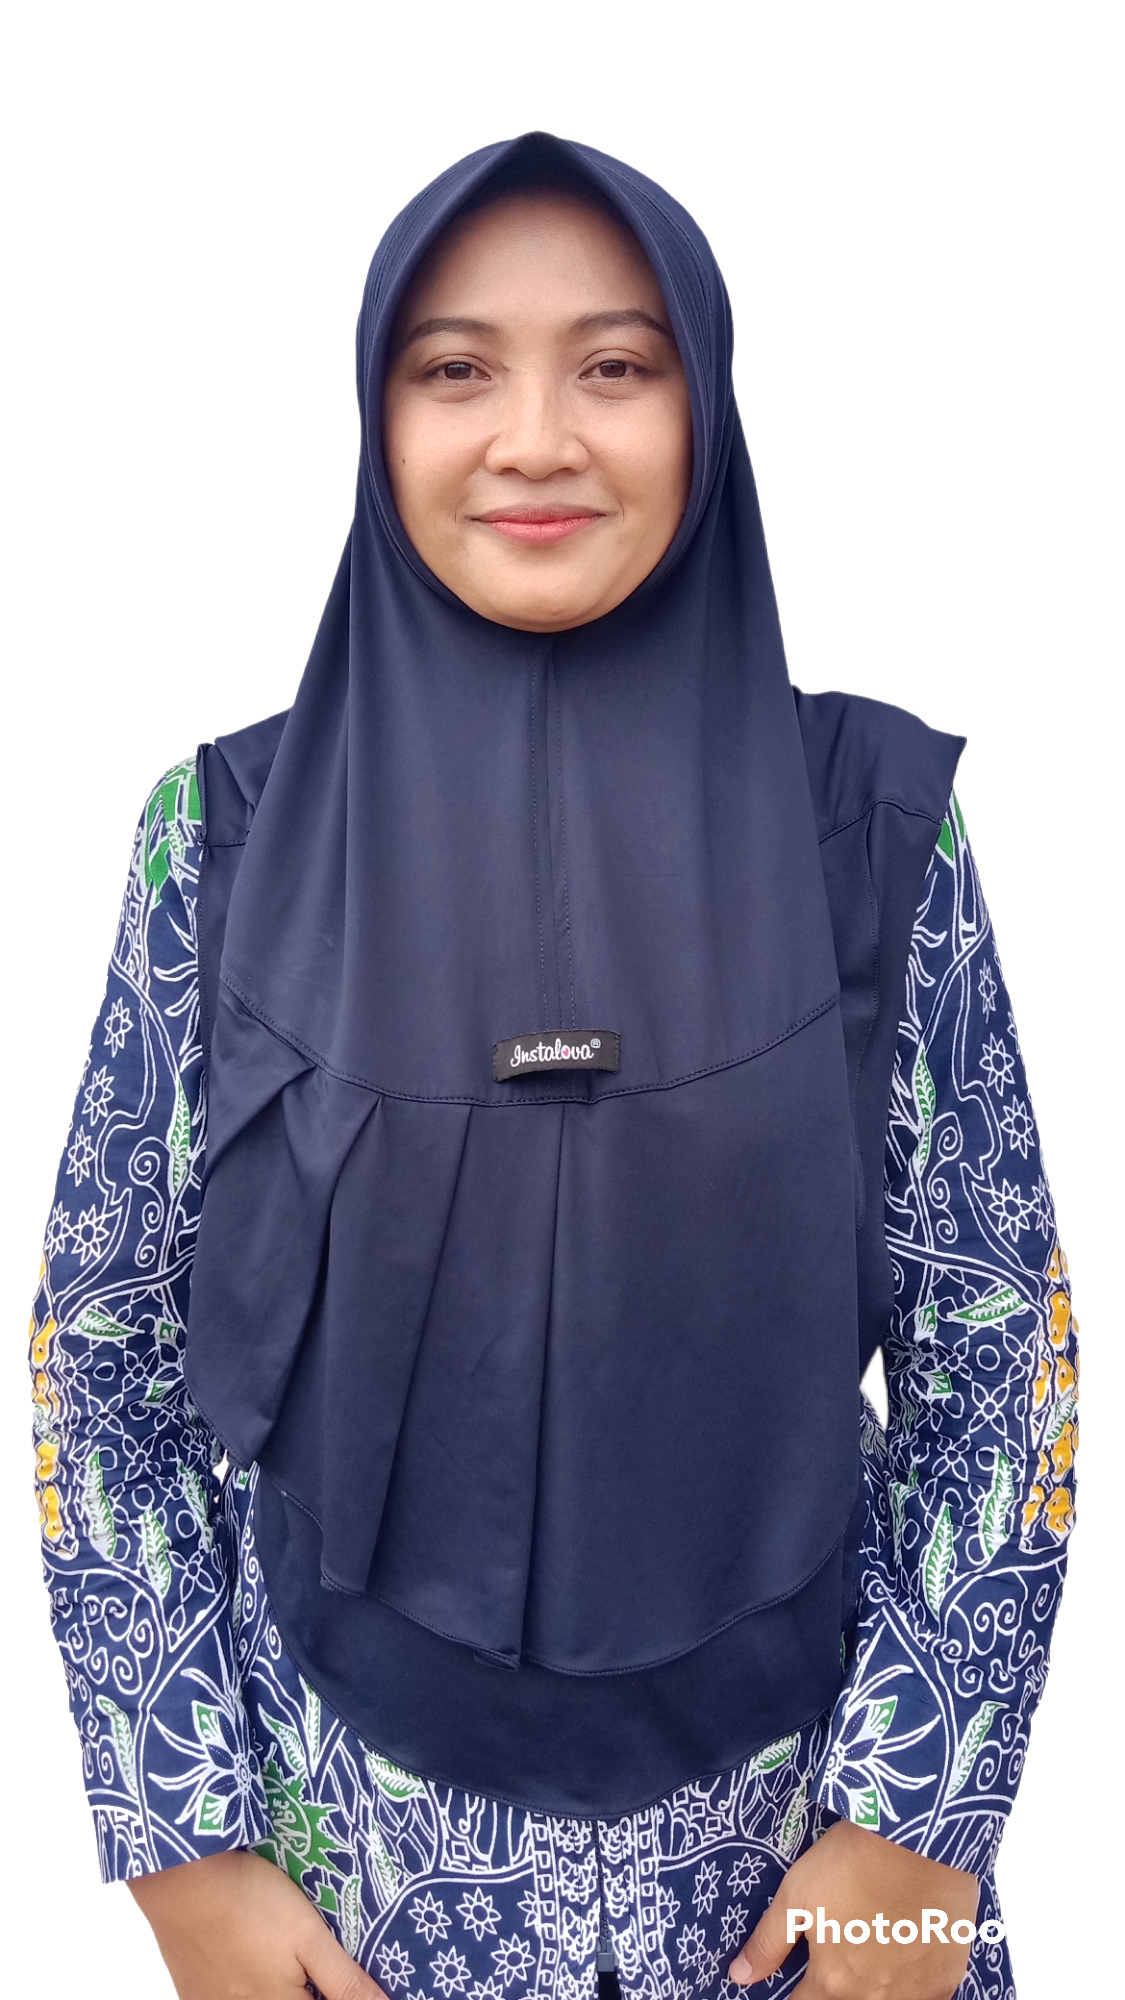
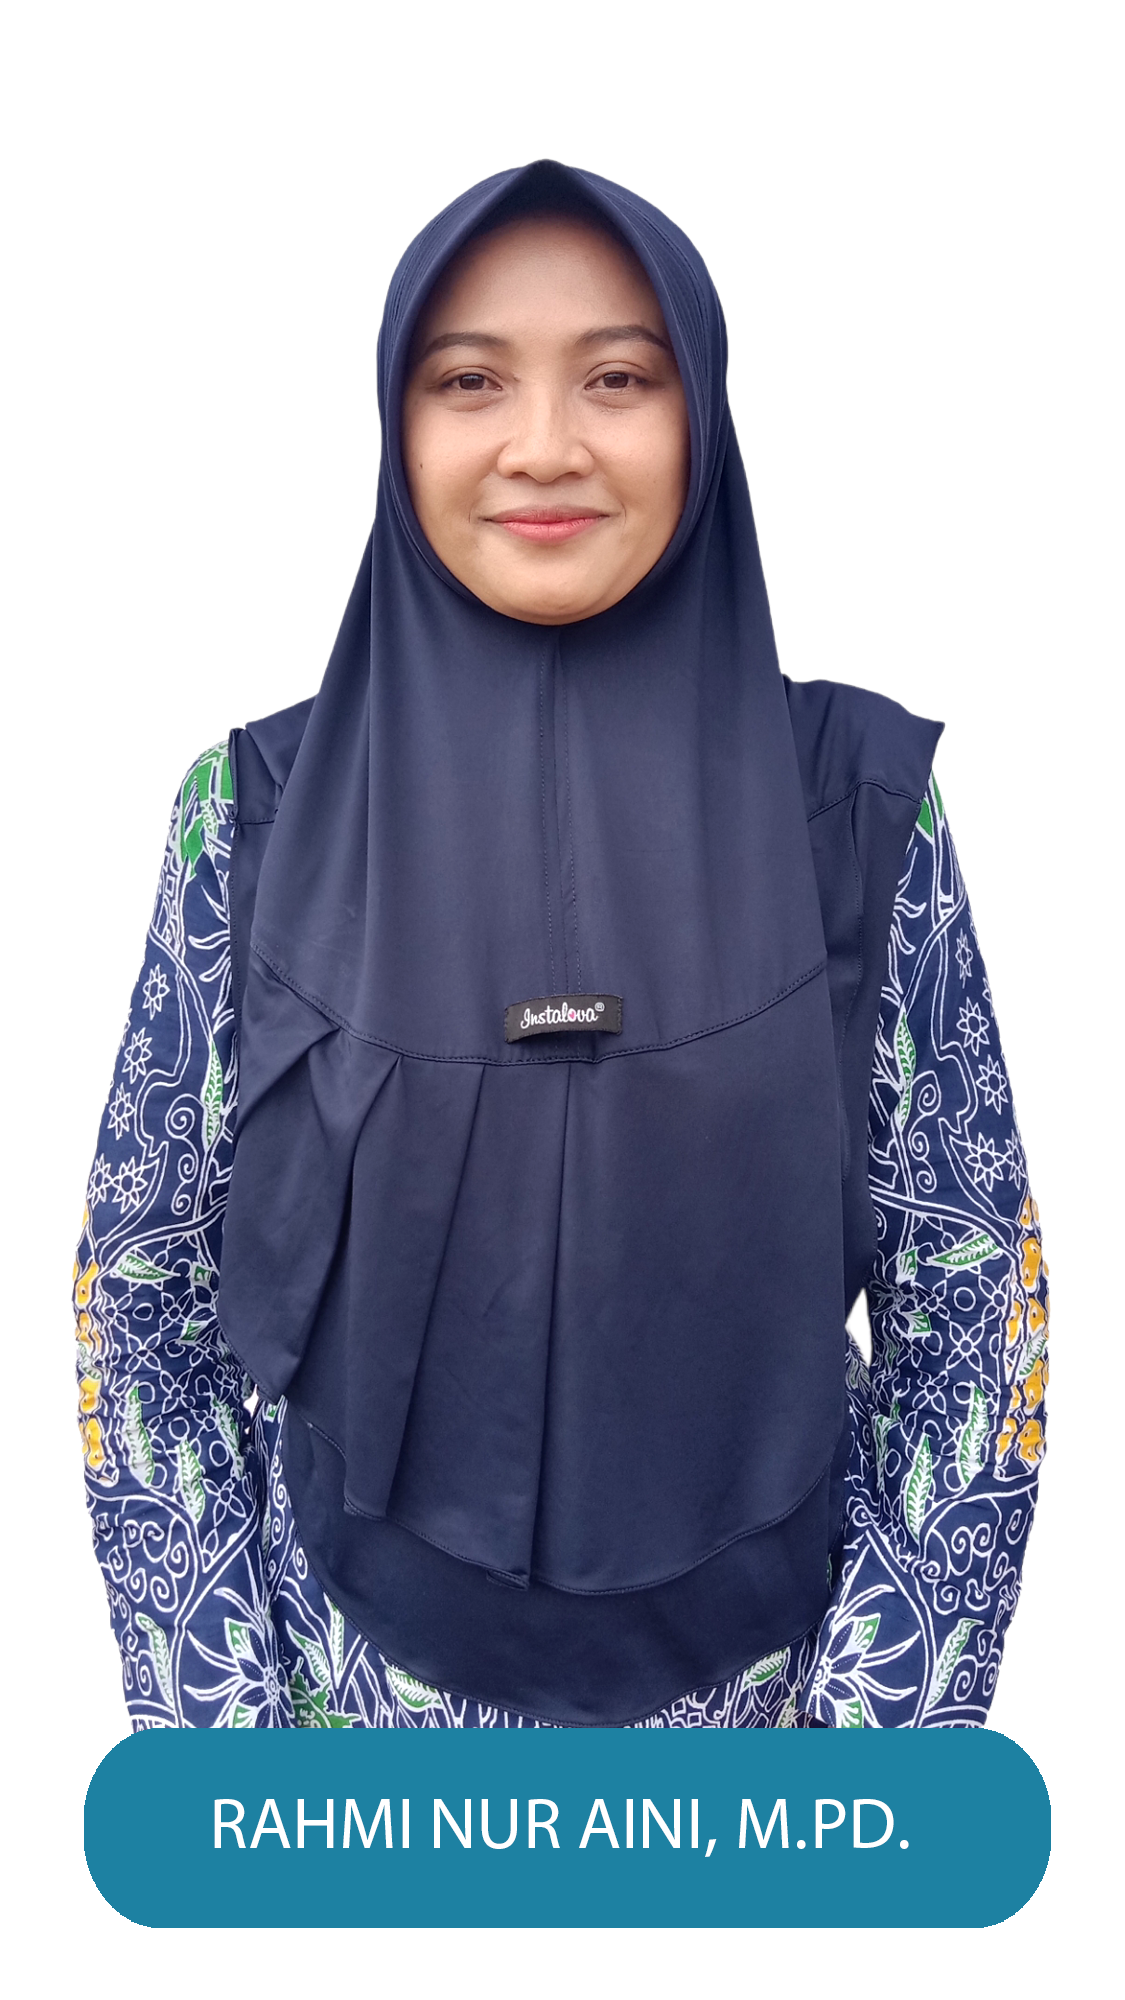
fotokepsek

diff --git a/resources/views/user/sambutan.blade.php b/resources/views/user/sambutan.blade.php
@@ -46,7 +46,7 @@
           Saya berharap Website ini dapat dijadikan wahana interaksi yang positif baik antar civitas akademika maupun masyarakat pada umumnya, sehingga dapat menjalin silaturahmi yang erat di segala unsur. Mari kita bekerja dan berkarya dengan mengharap ridho sang Kuasa dan keikhlasan yang tulus demi anak bangsa.
         </div>
         </p>
-        <div class="main-green-button mt-4"><a href="#">RAHMI NUR AINI, M.PD.</a></div>
+        <!-- <div class="main-green-button mt-4"><a href="#">RAHMI NUR AINI, M.PD.</a></div> -->
       </div>
     </div>
   </div>
